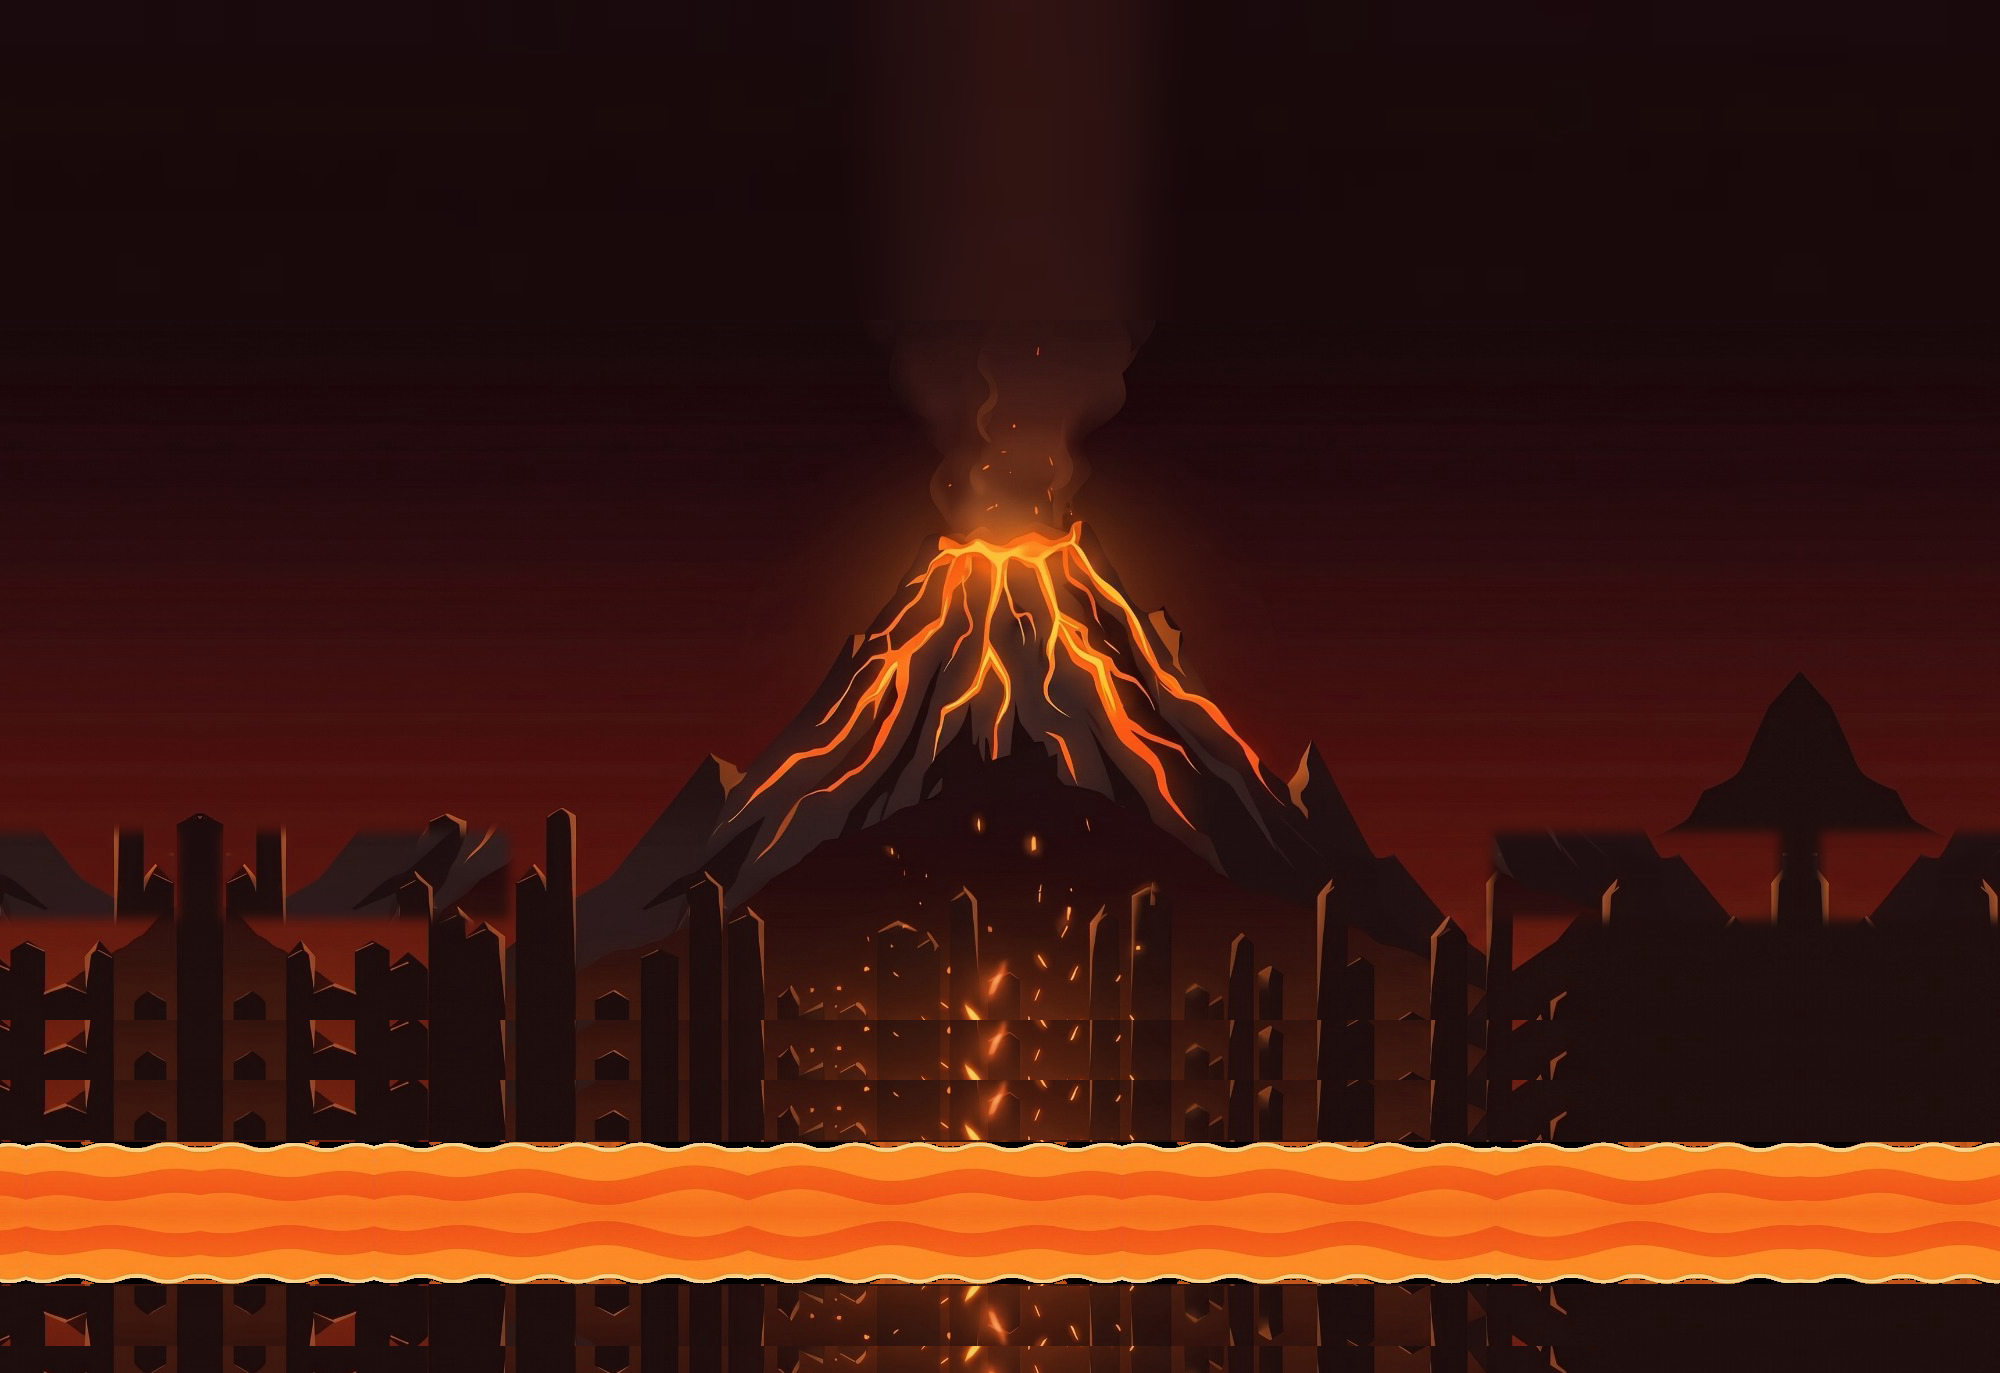
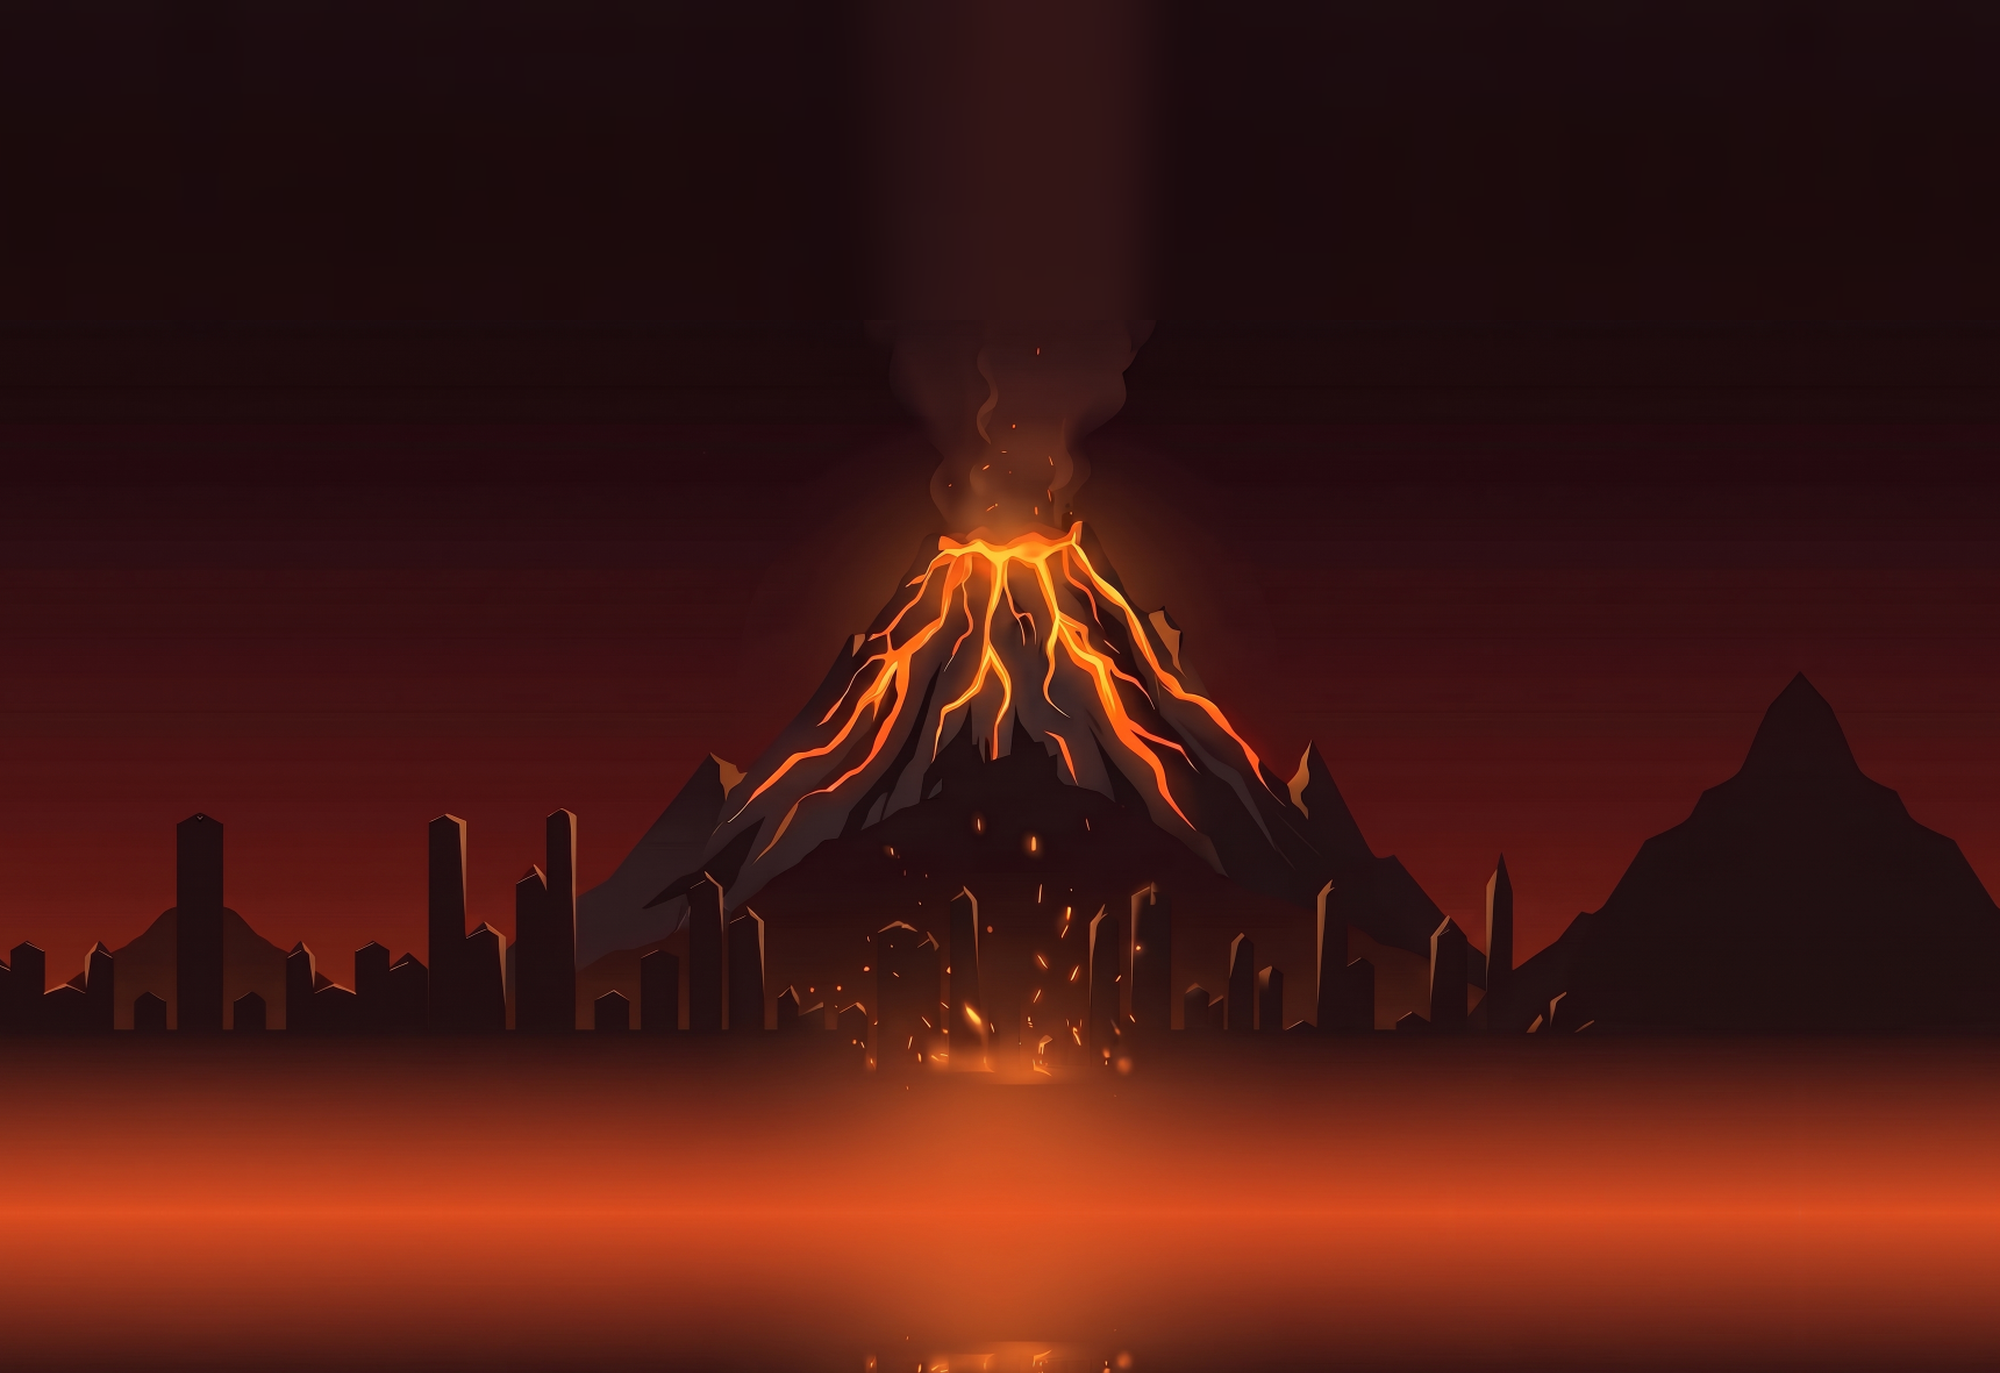
fix volcano map

diff --git a/Assets/Scripts/Game/Arenas.cs b/Assets/Scripts/Game/Arenas.cs
@@ -152,7 +152,7 @@ namespace StickDuel
             },
             new Arena
             {
-                Name = "DRAGON VOLCANO", Blurb = "Floor pieces sink into the lava", Texture = "Bg_volcano", GroundRow = 712f,
+                Name = "VOLCANO", Blurb = "Floor pieces sink into the lava", Texture = "Bg_volcano", GroundRow = 712f,
                 // The painted floor is replaced by a lava sea (Tools/prepare_backgrounds.py) with pieces on it.
                 // The painted ledges are painted out too: the whole fight is on the pieces.
                 Pieces = new[] { 147f, 473f, 800f, 1127f, 1453f },
